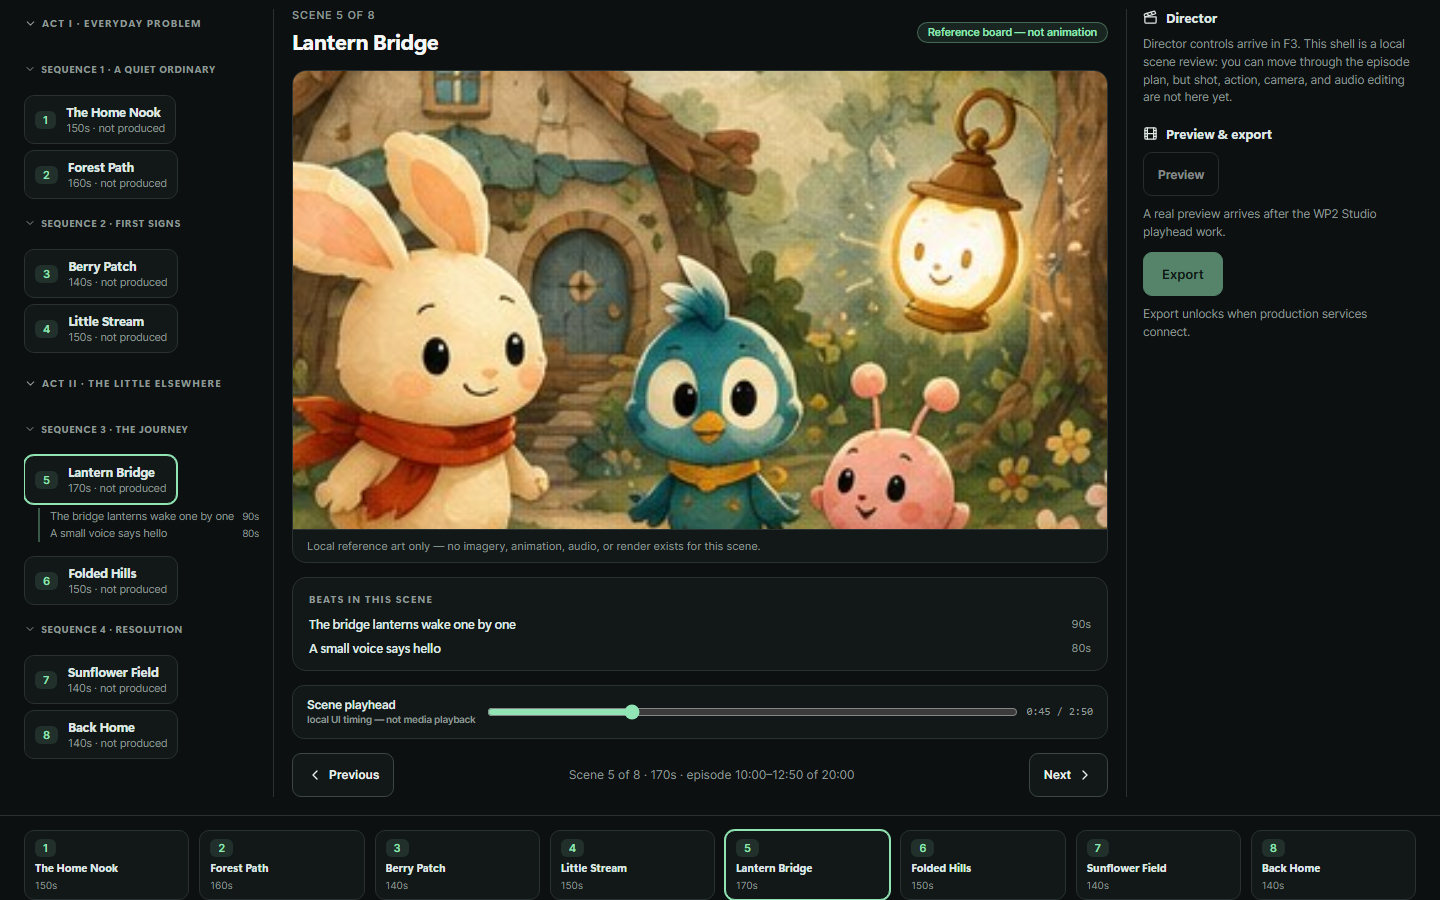
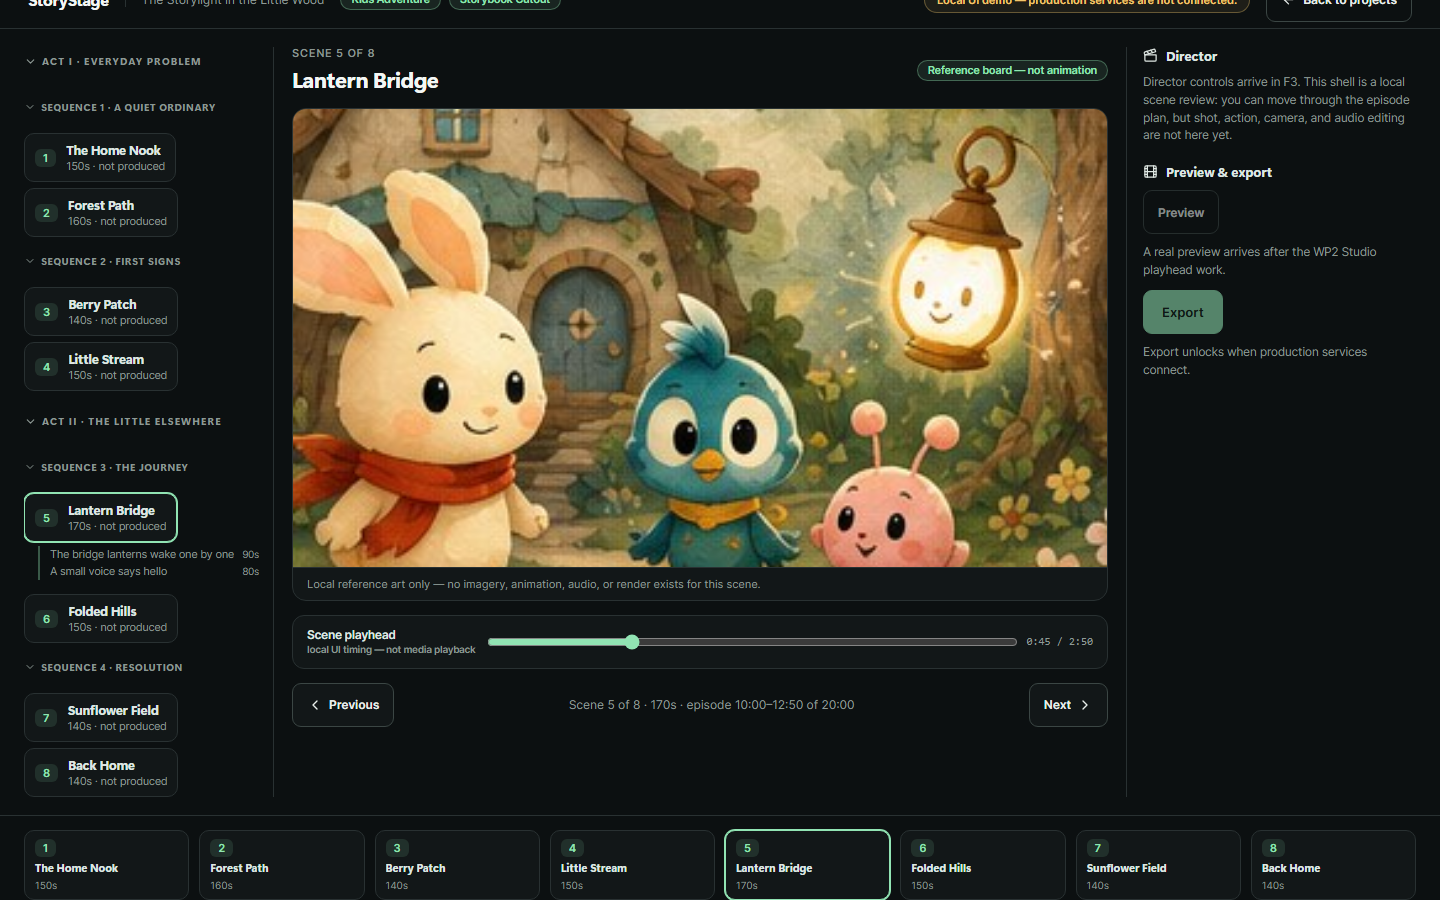
docs(studio): v42 bounded beat count handback + recaptured evidence

diff --git a/reports/agent-handoffs/2026-07-20-kimi-f2-wp2-navigation/HANDOFF.md b/reports/agent-handoffs/2026-07-20-kimi-f2-wp2-navigation/HANDOFF.md
@@ -132,3 +132,48 @@ contains accepted F2-WP1) and touches only the files listed above.
 
 Stopping here: no WP3, F3, or backend work. Continuing the 15-minute
 read-only inbox poll.
+
+---
+
+## v42 correction — bounded beat-row count
+
+Brief: `reports/agent-handoffs/2026-07-20-codex-kimi-f2-wp2-bounded-beat-count-v42.md`
+Rejected head: `5eb684ebcbf62886a5371311cf8226a48220df0a`
+
+### Correction applied
+
+The selected scene's beat rows now render exactly once — beneath the
+selected scene in the hierarchy rail. The duplicate center-board beat list
+is removed (not merely unmarked or hidden), along with its dead CSS. The
+regression test now asserts exactly the selected scene's two beat rows and
+that every row's `data-beat-for` belongs to the selected scene, before and
+after selection changes.
+
+### v42 changed files
+
+- `apps/studio/src/product-v1/StudioShell.tsx` — board beat list removed.
+- `apps/studio/src/styles.css` — dead `.pv1-board-beats` rules removed.
+- `apps/studio/src/App.test.tsx` — beat-row count assertions corrected to 2.
+- `reports/agent-handoffs/2026-07-20-kimi-f2-wp2-navigation/**` — this note
+  + recaptured screenshots + click-through report.
+
+### v42 verification
+
+1. `pnpm --filter @storystage/studio test` — **69/69 pass**.
+2. `pnpm --filter @storystage/studio typecheck` — clean.
+3. `pnpm --filter @storystage/studio build` — clean.
+4. `pnpm verify` — **exit 0**.
+5. Click-through re-run at 1440×900: all checks pass, zero console
+   warnings/errors, zero page errors.
+
+### v42 screenshots (recaptured, 1440×900)
+
+| File | State | SHA-256 |
+| --- | --- | --- |
[3 lines of base64/hex data omitted]
+
+All accepted v41 behavior is preserved: collapse, hidden-selection summary
+and Reveal, selection synchronization, playhead move/reset, disclosure
+labels, and disabled-control honesty.
